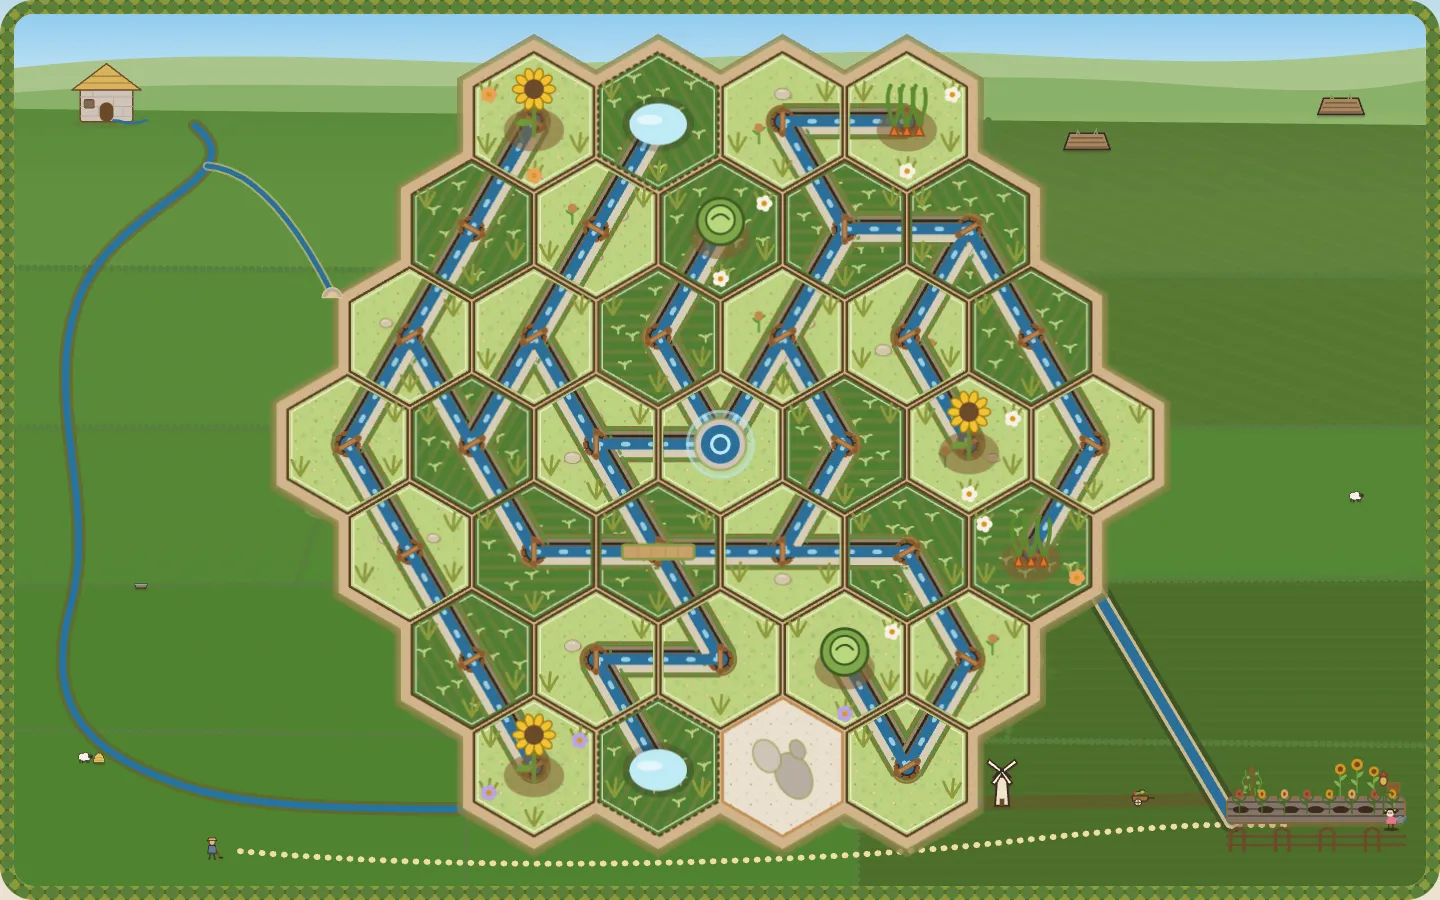
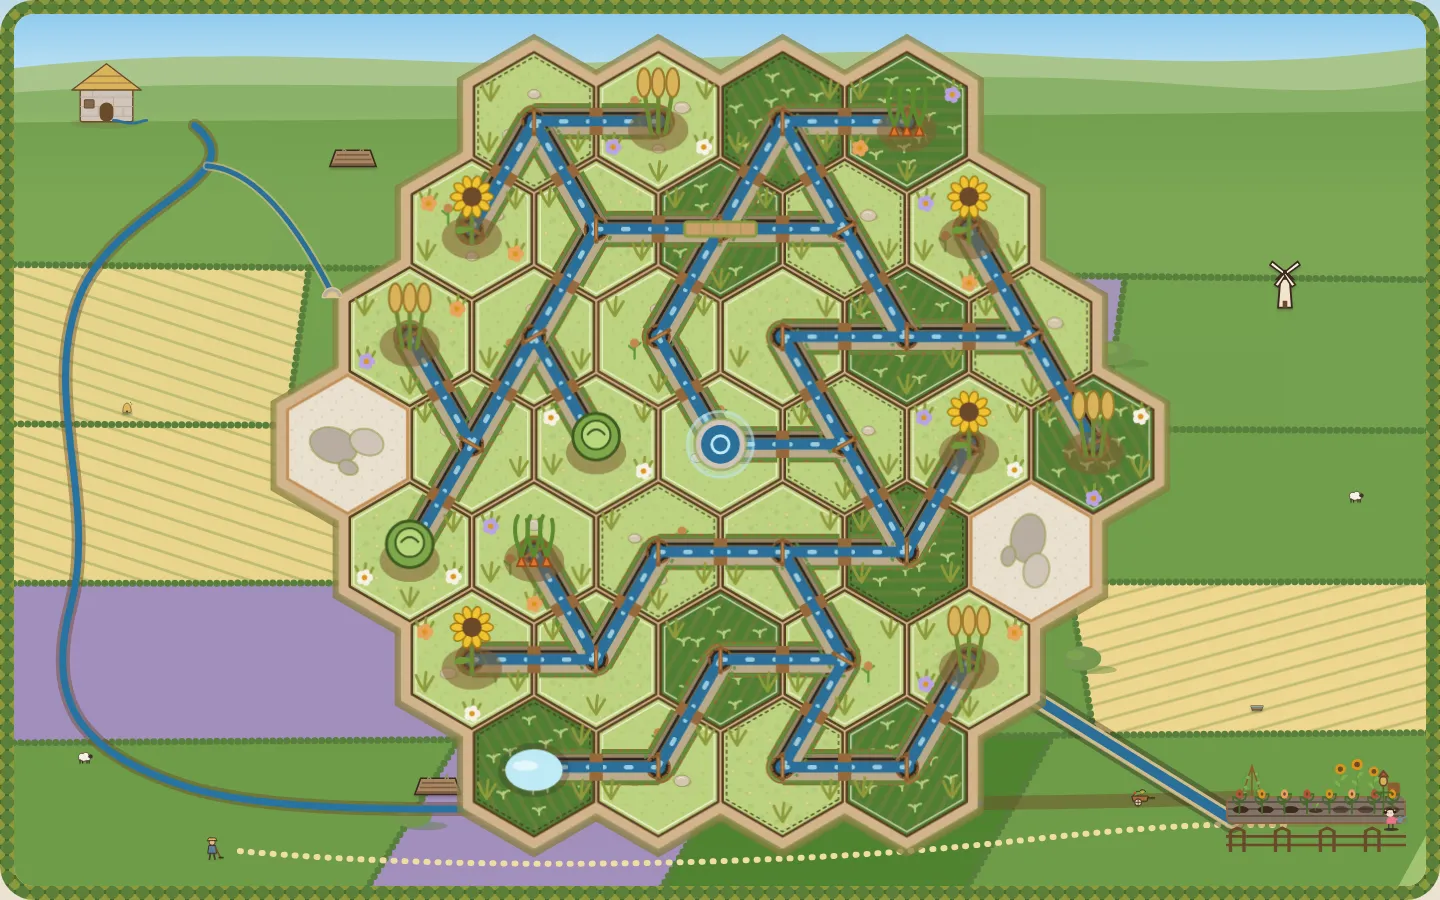
Runnel: the valley's fields grow the season's crops in poster colour (plan item 508, slice 1)
The patchwork was one khaki wash of crop, wheat, grass and fallow. Now each season sows its own fields (`KINDS` by
season: spring rapeseed and kale, summer wheat and lavender, autumn plough, stubble, mustard and phacelia, winter
plough and kale), from four poster crop colours pulled toward the hour's light (`sceneLight`), neighbours never
repeating; flowering crops are flat colour, no furrows. On a solve the stubble, flowering crops and kale keep their
colour and the grass and fallow green to two greens, so the watered valley stays a patchwork (it went one green).
Solved valley hue bins with 3%+ (scripts/runnel-508-measure.mjs): D 3 -> 5, P 5 -> 6. runnel-greened updated
(kept crops hold their hue); valley, fields, week-valley, valley-folk, win, scale pass at P and D; key art re-shot.

Claude-Session: https://claude.ai/code/session_01SimvMPUxm5rT7q3CVxbzAh

diff --git a/games/runnel/src/valley.ts b/games/runnel/src/valley.ts
@@ -5,6 +5,7 @@
 
 import { hashString } from './engine'
 import type { Sky, TimeOfDay } from './sky'
+import type { Season } from './season'
 
 export interface SceneLight {
   skyTop: string
@@ -17,9 +18,14 @@ export interface SceneLight {
   wheat: string
   fallow: string
   hedge: string
+  /** Plan item 508: the poster crops (rapeseed or autumn mustard, lavender or phacelia, kale, the plough's umber). */
+  rapeseed: string
+  lavender: string
+  kale: string
+  plough: string
 }
 
-const BASE: Record<TimeOfDay, SceneLight> = {
+const BASE: Record<TimeOfDay, Omit<SceneLight, PosterCrop>> = {
   // A cool, pale morning: dew on the grass, the sky still cream at the horizon.
   morning: {
     skyTop: '#c4e2f4', skyLow: '#fbeccf', far: '#b7c99f', near: '#9fba7c', meadow: '#c3d696', meadowLow: '#adc580',
@@ -54,8 +60,19 @@ function overcast(c: string, amount: number, dim: number): string {
   return toHex([r, g, b].map((v) => (v + (grey - v) * amount) * (1 - dim)))
 }
 
+type PosterCrop = 'rapeseed' | 'lavender' | 'kale' | 'plough'
+/** Plan item 508: a farmers'-market poster's crop colours at midday, each pulled toward the hour's own fallow light. */
+const POSTER: Record<PosterCrop, string> = { rapeseed: '#e3c233', lavender: '#a08cbf', kale: '#4e8270', plough: '#8c5b3a' }
+const POSTER_LIGHT: Record<TimeOfDay, number> = { morning: 0.12, noon: 0, golden: 0.22, dusk: 0.38 }
+function mixHex(a: string, b: string, t: number): string {
+  const x = hex(a), y = hex(b)
+  return toHex(x.map((v, i) => v + (y[i]! - v) * t))
+}
+
 export function sceneLight(sky: Pick<Sky, 'time' | 'weather'>): SceneLight {
-  const base = BASE[sky.time]
+  const hour = BASE[sky.time]
+  const base: SceneLight = { ...hour } as SceneLight
+  for (const k of Object.keys(POSTER) as PosterCrop[]) base[k] = mixHex(POSTER[k], hour.fallow, POSTER_LIGHT[sky.time])
   if (sky.weather === 'clear' || sky.weather === 'breeze') return { ...base }
   // Plan item 229: rain softens the colour, it doesn't take it away (0.5 grey and 10% dark turned the valley to slate).
   // Plan item 298: a *light* drizzle with sunbreaks: the land keeps most of the hour's colour (0.3 grey read as a wash
@@ -112,17 +129,31 @@ export function lightVars(light: SceneLight): Record<string, string> {
     '--vl-sky-top': light.skyTop, '--vl-sky-low': light.skyLow, '--vl-far': light.far, '--vl-near': light.near,
     '--vl-meadow': light.meadow, '--vl-meadow-low': light.meadowLow, '--vl-crop': light.crop,
     '--vl-wheat': light.wheat, '--vl-fallow': light.fallow, '--vl-hedge': light.hedge,
+    '--vl-rapeseed': light.rapeseed, '--vl-lavender': light.lavender, '--vl-kale': light.kale, '--vl-plough': light.plough,
   }
 }
 
-const KINDS = ['crop', 'wheat', 'grass', 'fallow', 'crop', 'grass'] as const
+/**
+ * Plan item 508: the fields the valley grows, by season, so the patchwork reads as a poster of a farming year (it was
+ * one khaki wash of crop, wheat, grass and fallow): spring's rapeseed and kale, summer's wheat and lavender, autumn's
+ * plough, stubble and its cover crops (mustard and phacelia), winter's plough and kale.
+ */
+const KINDS: Record<Season, readonly string[]> = {
+  spring: ['rapeseed', 'crop', 'grass', 'kale', 'plough', 'rapeseed', 'grass', 'crop'],
+  summer: ['wheat', 'lavender', 'crop', 'grass', 'wheat', 'rapeseed', 'fallow', 'grass'],
+  autumn: ['plough', 'wheat', 'kale', 'grass', 'mustard', 'phacelia', 'plough', 'grass'],
+  winter: ['plough', 'kale', 'grass', 'fallow', 'plough', 'grass', 'kale'],
+}
+/** Kinds drawn without furrows (grass and the flowering crops read as a flat sheet of colour). */
+const FLAT = new Set(['grass', 'rapeseed', 'mustard', 'lavender', 'phacelia'])
 
 /**
  * The valley's painted layers (sky, far and near hills melting into the meadow, a patchwork of fields with furrows,
  * hedgerows along their edges, a few trees, Cath's footpath down to Bea's garden), seeded by the board.
  * Rows grow taller toward the foot, as fields do when the ground comes nearer.
  */
-export function valleyLayers(seed: string, weather: Sky['weather']): string {
+export function valleyLayers(seed: string, weather: Sky['weather'], season: Season = 'summer'): string {
+  const kinds = KINDS[season]
   const rnd = (k: number) => (hashString(`${seed}:valley:${k}`) % 10000) / 10000
   // Plan item 389: the valley seen from the board's own top-down angle: rows of even depth under a thin horizon band
   // (the ground from 118 of 1000), not a perspective that grew from 80 to 210 toward the foot.
@@ -133,6 +164,7 @@ export function valleyLayers(seed: string, weather: Sky['weather']): string {
   const puddles: string[] = []
   const slope = (row: number, x: number) => rows[row]! + (rnd(row) - 0.5) * 40 * (x / 1000 - 0.5)
   let n = 0
+  let prevKind = ''
   for (let r = 0; r < rows.length - 1; r++) {
     // Cut the row into 3-5 fields with seeded widths and slanted dividers.
     const count = 3 + Math.floor(rnd(100 + r) * 3)
@@ -144,7 +176,10 @@ export function valleyLayers(seed: string, weather: Sky['weather']): string {
     parts.push(`<g opacity="${[0.82, 0.9, 0.95, 1, 1][r]}">`)
     for (let i = 0; i < count; i++) {
       const xa = cuts[i]!, xb = cuts[i + 1]!
-      const kind = KINDS[Math.floor(rnd(400 + n) * KINDS.length)]!
+      // Neighbours differ: a field never repeats the one to its left.
+      let kind = kinds[Math.floor(rnd(400 + n) * kinds.length)]!
+      if (i > 0 && kind === prevKind) kind = kinds[(kinds.indexOf(kind) + 1 + Math.floor(rnd(410 + n) * (kinds.length - 1))) % kinds.length]!
+      prevKind = kind
       const pts = [
         [xa, slope(r, xa)], [xb, slope(r, xb)], [xb + lean, slope(r + 1, xb + lean)], [xa + lean, slope(r + 1, xa + lean)],
       ].map(([x, y]) => `${x!.toFixed(0)},${y!.toFixed(0)}`).join(' ')
@@ -152,7 +187,7 @@ export function valleyLayers(seed: string, weather: Sky['weather']): string {
       // right), as a delay bucket 0-9 (styles.css).
       const wave = Math.min(9, r * 2 + Math.floor((i * 2) / count))
       parts.push(`<polygon class="vl-f vl-f-${kind} vl-w${wave}" points="${pts}"/>`)
-      if (kind !== 'grass') {
+      if (!FLAT.has(kind)) {
         const pat = rnd(500 + n) < 0.5 ? 'vl-rows-h' : rnd(600 + n) < 0.5 ? 'vl-rows-d' : 'vl-rows-a'
         parts.push(`<polygon class="vl-furrow" fill="url(#${pat})" points="${pts}"/>`)
       }

diff --git a/e2e-site/runnel-greened.spec.ts b/e2e-site/runnel-greened.spec.ts
@@ -1,7 +1,9 @@
 import { test, expect } from '@playwright/test'
 
-// Plan item 308: a solved board greens the valley's fields over: the tan fields (wheat, fallow) turn 30 degrees or more
-// of hue toward the wet-field green, the pale green crops deepen (in a wave; under reduced motion a single fade).
+// Plan item 308: a solved board greens the valley's fields over: the tan fallow turns 30 degrees or more of hue toward
+// the wet-field green, the pale green crops deepen (in a wave; under reduced motion a single fade). Plan item 508: the
+// stubble and the season's poster crops (rapeseed or mustard, lavender or phacelia, kale) keep their own hue, so the
+// solved valley stays a patchwork of the farming year rather than one green.
 const rgb = (c: string): [number, number, number] => {
   const v = (c.match(/[\d.]+/g) ?? []).slice(0, 3).map(Number) as [number, number, number]
   return c.startsWith('color(') ? v : (v.map((x) => x / 255) as [number, number, number])
@@ -24,7 +26,14 @@ test('a solved board greens the valley over', async ({ page }) => {
   await page.goto('/runnel/?shotsolve')
   await page.locator('[data-last]').waitFor()
   const fills = () =>
-    page.locator('#valley-paint .vl-f-crop, #valley-paint .vl-f-wheat, #valley-paint .vl-f-fallow').evaluateAll((els) => els.map((e) => ({ crop: e.classList.contains('vl-f-crop'), fill: getComputedStyle(e).fill })))
+    page
+      .locator('#valley-paint .vl-f')
+      .evaluateAll((els) =>
+        els.map((e) => ({
+          kind: e.classList.contains('vl-f-crop') ? 'crop' : e.classList.contains('vl-f-fallow') ? 'fallow' : /vl-f-(wheat|rapeseed|mustard|lavender|phacelia|kale)\b/.test(e.getAttribute('class') ?? '') ? 'kept' : 'other',
+          fill: getComputedStyle(e).fill,
+        })),
+      )
   const before = await fills()
   expect(before.length).toBeGreaterThan(0)
   await expect(page.locator('#valley-paint')).not.toHaveAttribute('data-greened', '')
@@ -32,13 +41,17 @@ test('a solved board greens the valley over', async ({ page }) => {
   await expect(page.locator('#valley-paint')).toHaveAttribute('data-greened', '')
   await page.waitForTimeout(800)
   const after = await fills()
-  for (const [i, { crop, fill }] of after.entries()) {
+  expect(before.some((f) => f.kind === 'kept'), 'a poster crop or stubble on the board').toBe(true)
+  for (const [i, { kind, fill }] of after.entries()) {
     const was = before[i]!.fill
-    if (crop) {
+    const shift = Math.abs(hue(fill) - hue(was))
+    if (kind === 'crop') {
       expect(light(was) - light(fill), `crop ${i}: ${was} -> ${fill}`).toBeGreaterThanOrEqual(0.15)
-    } else {
-      const shift = Math.abs(hue(fill) - hue(was))
+    } else if (kind === 'fallow') {
       expect(Math.min(shift, 360 - shift), `field ${i}: ${was} -> ${fill}`).toBeGreaterThanOrEqual(30)
+    } else if (kind === 'kept') {
+      // (at D the in-play haze over the valley lifts as well, which moves a hue up to about 20 degrees)
+      expect(Math.min(shift, 360 - shift), `kept ${i}: ${was} -> ${fill}`).toBeLessThanOrEqual(25)
     }
   }
 })

diff --git a/games/runnel/src/styles.css b/games/runnel/src/styles.css
@@ -3882,12 +3882,25 @@ body[data-mode='practice'] #week-slot {
   .vl-f-wheat { fill: color-mix(in srgb, var(--vl-wheat) var(--vk), var(--paper)); }
   .vl-f-fallow { fill: color-mix(in srgb, var(--vl-fallow) var(--vk), var(--paper)); }
   .vl-f-grass { fill: color-mix(in srgb, var(--vl-meadow) var(--vk), var(--paper)); }
+  /* Plan item 508: the poster crops; autumn's cover crops wear the colours of their summer cousins. */
+  .vl-f-rapeseed, .vl-f-mustard { fill: color-mix(in srgb, var(--vl-rapeseed) var(--vk), var(--paper)); }
+  .vl-f-lavender, .vl-f-phacelia { fill: color-mix(in srgb, var(--vl-lavender) var(--vk), var(--paper)); }
+  .vl-f-kale { fill: color-mix(in srgb, var(--vl-kale) var(--vk), var(--paper)); }
+  .vl-f-plough { fill: color-mix(in srgb, var(--vl-plough) var(--vk), var(--paper)); }
   /* Plan item 308: when the board is solved every field in the valley greens over, a wave from the far rows to the
      near ones (each field's delay bucket from valley.ts), the crop rows still drawn over the new green. */
   .vl-f { transition: fill 650ms var(--ease-out, ease-out); }
   #valley-paint[data-greened] .vl-f { fill: color-mix(in srgb, var(--wet-field) var(--vk), var(--paper)); }
   /* (the crop rows deepen a shade past the fields, lush rather than merely green: under a golden-hour sky the crops
      start darker, and greening them only to the field green left them barely changed) */
+  /* Plan item 508: the flowering crops and the kale keep their own colours when the water comes (a valley greened to
+     one green lost the poster); the plough, stubble, fallow and grass green over. */
+  #valley-paint[data-greened] :is(.vl-f-rapeseed, .vl-f-mustard) { fill: color-mix(in srgb, var(--vl-rapeseed) var(--vk), var(--paper)); }
+  #valley-paint[data-greened] :is(.vl-f-lavender, .vl-f-phacelia) { fill: color-mix(in srgb, var(--vl-lavender) var(--vk), var(--paper)); }
+  #valley-paint[data-greened] .vl-f-kale { fill: color-mix(in srgb, var(--vl-kale) var(--vk), var(--paper)); }
+  #valley-paint[data-greened] .vl-f-wheat { fill: color-mix(in srgb, var(--vl-wheat) var(--vk), var(--paper)); }
+  /* the grass and fallow green to two greens, not one, so the patchwork still reads field by field */
+  #valley-paint[data-greened] :is(.vl-f-grass, .vl-f-fallow) { fill: color-mix(in srgb, color-mix(in srgb, var(--wet-field) 70%, var(--vl-meadow)) var(--vk), var(--paper)); }
   #valley-paint[data-greened] .vl-f-crop { fill: color-mix(in srgb, color-mix(in srgb, var(--wet-field) 76%, var(--tile-rim)) var(--vk), var(--paper)); }
   #valley-paint[data-greened] .vl-w1 { transition-delay: 90ms; }
   #valley-paint[data-greened] .vl-w2 { transition-delay: 180ms; }

diff --git a/games/runnel/src/main.ts b/games/runnel/src/main.ts
@@ -295,7 +295,7 @@ function paintValley(daily: string): void {
   if (!slot || slot.dataset.seed === seed) return
   const sky = lesson ? { time: 'golden' as const, weather: 'clear' as const } : boardSky(seed)
   slot.dataset.seed = seed
-  slot.innerHTML = valleyLayers(seed, sky.weather)
+  slot.innerHTML = valleyLayers(seed, sky.weather, seasonOf(/^daily-/.test(seed) ? seed.slice(6) : today))
   const stage = slot.closest<HTMLElement>('.stage')
   for (const [k, v] of Object.entries(lightVars(sceneLight(sky)))) stage?.style.setProperty(k, v)
 }
